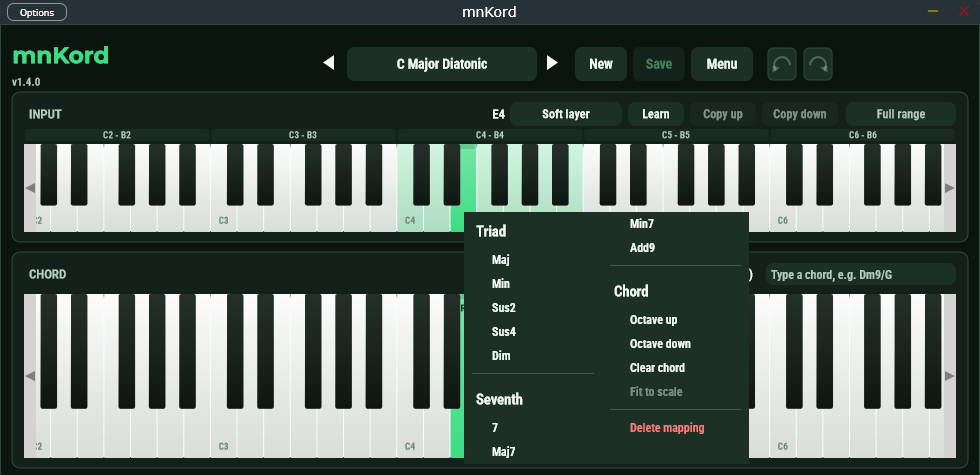
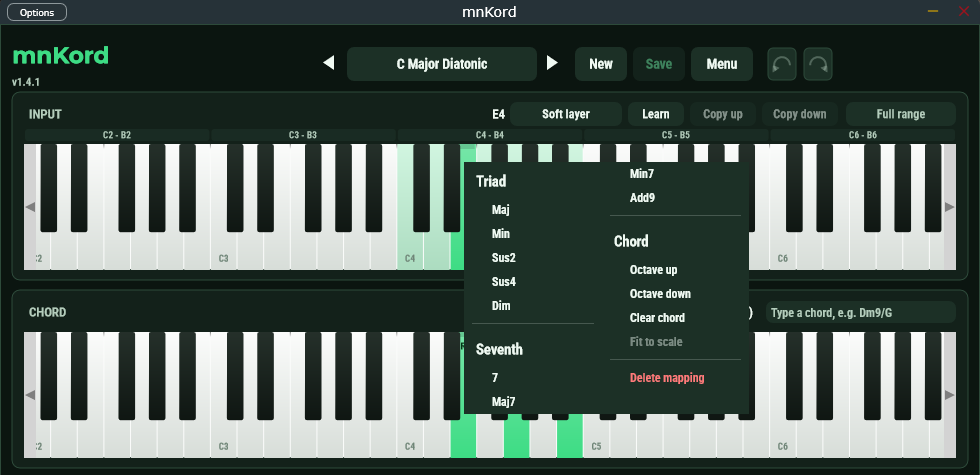
Update the screenshots, PDFs and home page for 1.4.1

diff --git a/docs/hu/index.html b/docs/hu/index.html
@@ -235,7 +235,7 @@ ol.steps, ul.cards { margin: 0; padding: 0; }
    "applicationCategory": "MultimediaApplication",
    "applicationSubCategory": "MIDI effect, VST3 audio plugin",
    "operatingSystem": "Windows 10, Windows 11",
-   "softwareVersion": "1.4.0",
+   "softwareVersion": "1.4.1",
    "downloadUrl": "https://github.com/miklosnemeth/mnkord/releases/latest",
    "installUrl": "https://github.com/miklosnemeth/mnkord/releases/latest",
    "fileFormat": "application/vnd.steinberg.vst3",
@@ -399,7 +399,7 @@ ol.steps, ul.cards { margin: 0; padding: 0; }
         <a class="btn" href="https://github.com/miklosnemeth/mnkord"><svg viewBox="0 0 24 24" fill="currentColor" aria-hidden="true"><path d="M12 .5a11.5 11.5 0 0 0-3.64 22.41c.58.1.79-.25.79-.56v-2c-3.2.7-3.88-1.37-3.88-1.37-.52-1.33-1.28-1.69-1.28-1.69-1.04-.71.08-.7.08-.7 1.15.08 1.76 1.19 1.76 1.19 1.03 1.76 2.69 1.25 3.35.96.1-.75.4-1.25.73-1.54-2.55-.29-5.24-1.28-5.24-5.69 0-1.26.45-2.28 1.19-3.09-.12-.29-.52-1.46.11-3.05 0 0 .97-.31 3.17 1.18a11 11 0 0 1 5.78 0c2.2-1.49 3.17-1.18 3.17-1.18.63 1.59.23 2.76.11 3.05.74.81 1.19 1.83 1.19 3.09 0 4.42-2.69 5.39-5.25 5.68.41.36.78 1.06.78 2.14v3.17c0 .31.21.67.8.56A11.5 11.5 0 0 0 12 .5Z"/></svg>Forráskód a GitHubon</a>
       </div>
       <ul class="facts">
-        <li>v1.4.0</li>
+        <li>v1.4.1</li>
         <li>VST3 · Windows x64</li>
         <li>Ingyenes és nyílt forráskódú (AGPL-3.0)</li>
       </ul>
@@ -426,7 +426,7 @@ ol.steps, ul.cards { margin: 0; padding: 0; }
         <li class="card"><div class="ic"><svg viewBox="0 0 24 24" fill="none" stroke="currentColor" stroke-width="2" stroke-linecap="round" stroke-linejoin="round" aria-hidden="true"><path d="M9 14 4 9l5-5M4 9h10a6 6 0 0 1 0 12h-3"/></svg></div><h3>Learn, undo, transzponálás</h3><p>MIDI learn a kontrollerről, visszavonás és újra, egy egész oktáv másolása, billentyűk vagy akkordok transzponálása.</p></li>
       </ul>
       <h3 class="listh">Minden, ami benne van</h3>
-      <p class="sub">A mnKord 1.4.0 teljes funkciólistája.</p>
+      <p class="sub">A mnKord 1.4.1 teljes funkciólistája.</p>
       <div class="featlists">
         <div class="fl"><h4>Akkordok építése</h4><ul>
           <li>A 128 MIDI-billentyű bármelyikéhez saját akkordot rendelhetsz.</li>
@@ -604,7 +604,7 @@ ol.steps, ul.cards { margin: 0; padding: 0; }
       <p class="sub">Ingyenes, nyílt forráskóddal. A leggyorsabb út a Windows-telepítő.</p>
       <div class="get">
         <div class="box"><h3>Windows (64 bites)</h3><ol>
-          <li>Töltsd le a <strong>mnKord-1.4.0-win-x64-setup.exe</strong> fájlt a legfrissebb kiadásból.</li>
+          <li>Töltsd le a <strong>mnKord-1.4.1-win-x64-setup.exe</strong> fájlt a legfrissebb kiadásból.</li>
           <li>Futtasd. A VST3 a <code>Common Files\VST3</code> mappába kerül.</li>
           <li>Indíts új pluginkeresést a DAW-ban, és tedd a mnKordot egy hangszersávra, a szintetizátor elé.</li>
         </ol><a class="btn primary" href="https://github.com/miklosnemeth/mnkord/releases/latest">Legfrissebb kiadás</a></div>

diff --git a/docs/index.html b/docs/index.html
@@ -235,7 +235,7 @@ ol.steps, ul.cards { margin: 0; padding: 0; }
    "applicationCategory": "MultimediaApplication",
    "applicationSubCategory": "MIDI effect, VST3 audio plugin",
    "operatingSystem": "Windows 10, Windows 11",
-   "softwareVersion": "1.4.0",
+   "softwareVersion": "1.4.1",
    "downloadUrl": "https://github.com/miklosnemeth/mnkord/releases/latest",
    "installUrl": "https://github.com/miklosnemeth/mnkord/releases/latest",
    "fileFormat": "application/vnd.steinberg.vst3",
@@ -399,7 +399,7 @@ ol.steps, ul.cards { margin: 0; padding: 0; }
         <a class="btn" href="https://github.com/miklosnemeth/mnkord"><svg viewBox="0 0 24 24" fill="currentColor" aria-hidden="true"><path d="M12 .5a11.5 11.5 0 0 0-3.64 22.41c.58.1.79-.25.79-.56v-2c-3.2.7-3.88-1.37-3.88-1.37-.52-1.33-1.28-1.69-1.28-1.69-1.04-.71.08-.7.08-.7 1.15.08 1.76 1.19 1.76 1.19 1.03 1.76 2.69 1.25 3.35.96.1-.75.4-1.25.73-1.54-2.55-.29-5.24-1.28-5.24-5.69 0-1.26.45-2.28 1.19-3.09-.12-.29-.52-1.46.11-3.05 0 0 .97-.31 3.17 1.18a11 11 0 0 1 5.78 0c2.2-1.49 3.17-1.18 3.17-1.18.63 1.59.23 2.76.11 3.05.74.81 1.19 1.83 1.19 3.09 0 4.42-2.69 5.39-5.25 5.68.41.36.78 1.06.78 2.14v3.17c0 .31.21.67.8.56A11.5 11.5 0 0 0 12 .5Z"/></svg>Source on GitHub</a>
       </div>
       <ul class="facts">
-        <li>v1.4.0</li>
+        <li>v1.4.1</li>
         <li>VST3 · Windows x64</li>
         <li>Free and open source (AGPL-3.0)</li>
       </ul>
@@ -426,7 +426,7 @@ ol.steps, ul.cards { margin: 0; padding: 0; }
         <li class="card"><div class="ic"><svg viewBox="0 0 24 24" fill="none" stroke="currentColor" stroke-width="2" stroke-linecap="round" stroke-linejoin="round" aria-hidden="true"><path d="M9 14 4 9l5-5M4 9h10a6 6 0 0 1 0 12h-3"/></svg></div><h3>Learn, undo, transpose</h3><p>MIDI learn from your controller, undo and redo, copy a whole octave, transpose keys or chords.</p></li>
       </ul>
       <h3 class="listh">Everything in the box</h3>
-      <p class="sub">The full feature list of mnKord 1.4.0.</p>
+      <p class="sub">The full feature list of mnKord 1.4.1.</p>
       <div class="featlists">
         <div class="fl"><h4>Building chords</h4><ul>
           <li>Map any of the 128 MIDI keys to a chord of your own.</li>
@@ -604,7 +604,7 @@ ol.steps, ul.cards { margin: 0; padding: 0; }
       <p class="sub">Free, with the source code open. The Windows installer is the quick way in.</p>
       <div class="get">
         <div class="box"><h3>Windows (64-bit)</h3><ol>
-          <li>Download <strong>mnKord-1.4.0-win-x64-setup.exe</strong> from the latest release.</li>
+          <li>Download <strong>mnKord-1.4.1-win-x64-setup.exe</strong> from the latest release.</li>
           <li>Run it. The VST3 goes to <code>Common Files\VST3</code>.</li>
           <li>Rescan plugins in your DAW and put mnKord on an instrument track, before your synth.</li>
         </ol><a class="btn primary" href="https://github.com/miklosnemeth/mnkord/releases/latest">Latest release</a></div>
